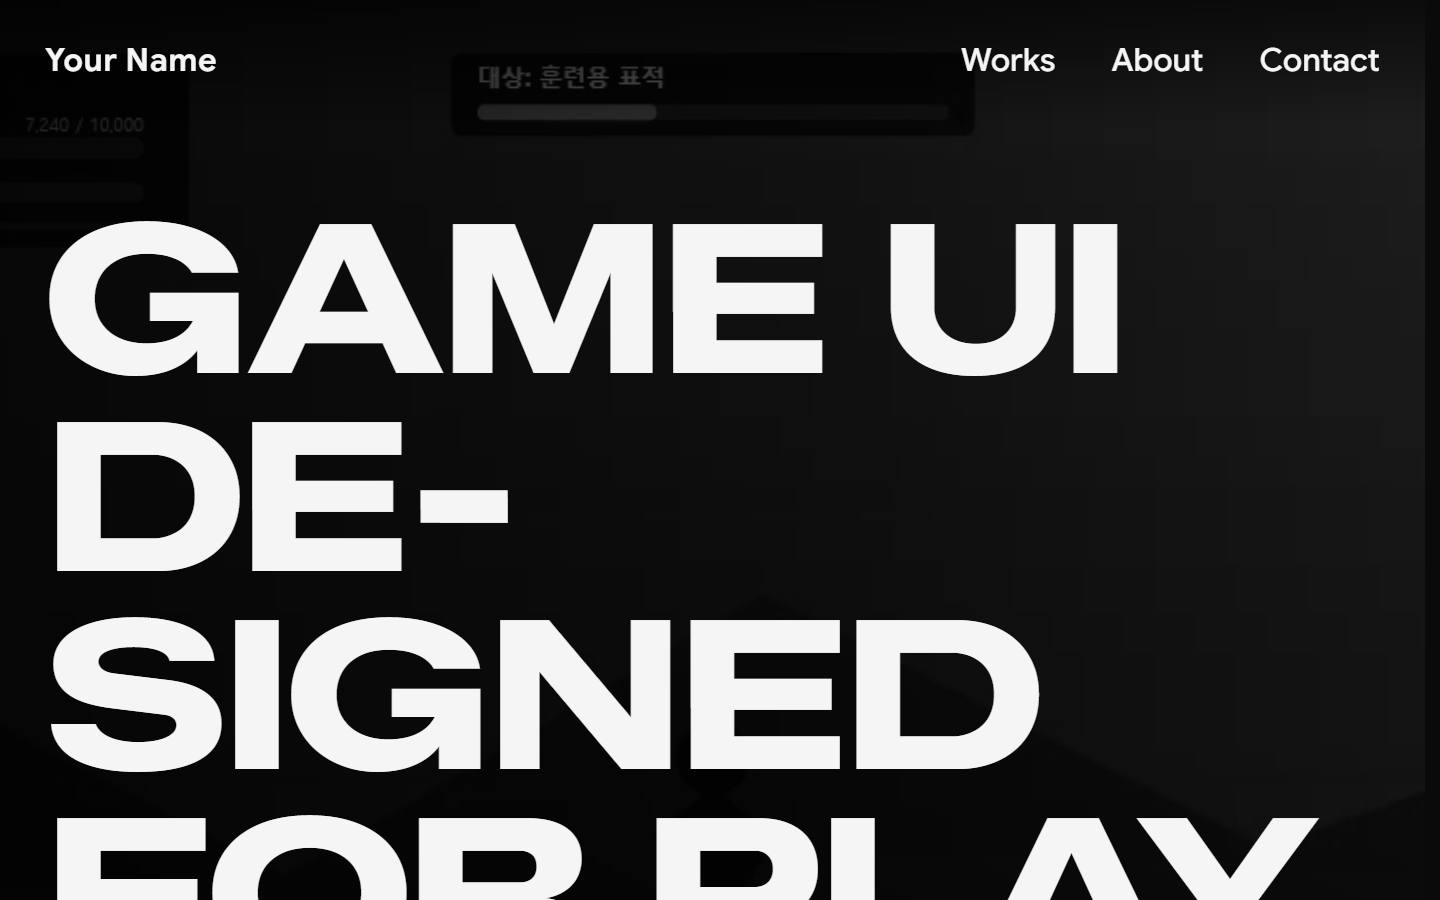
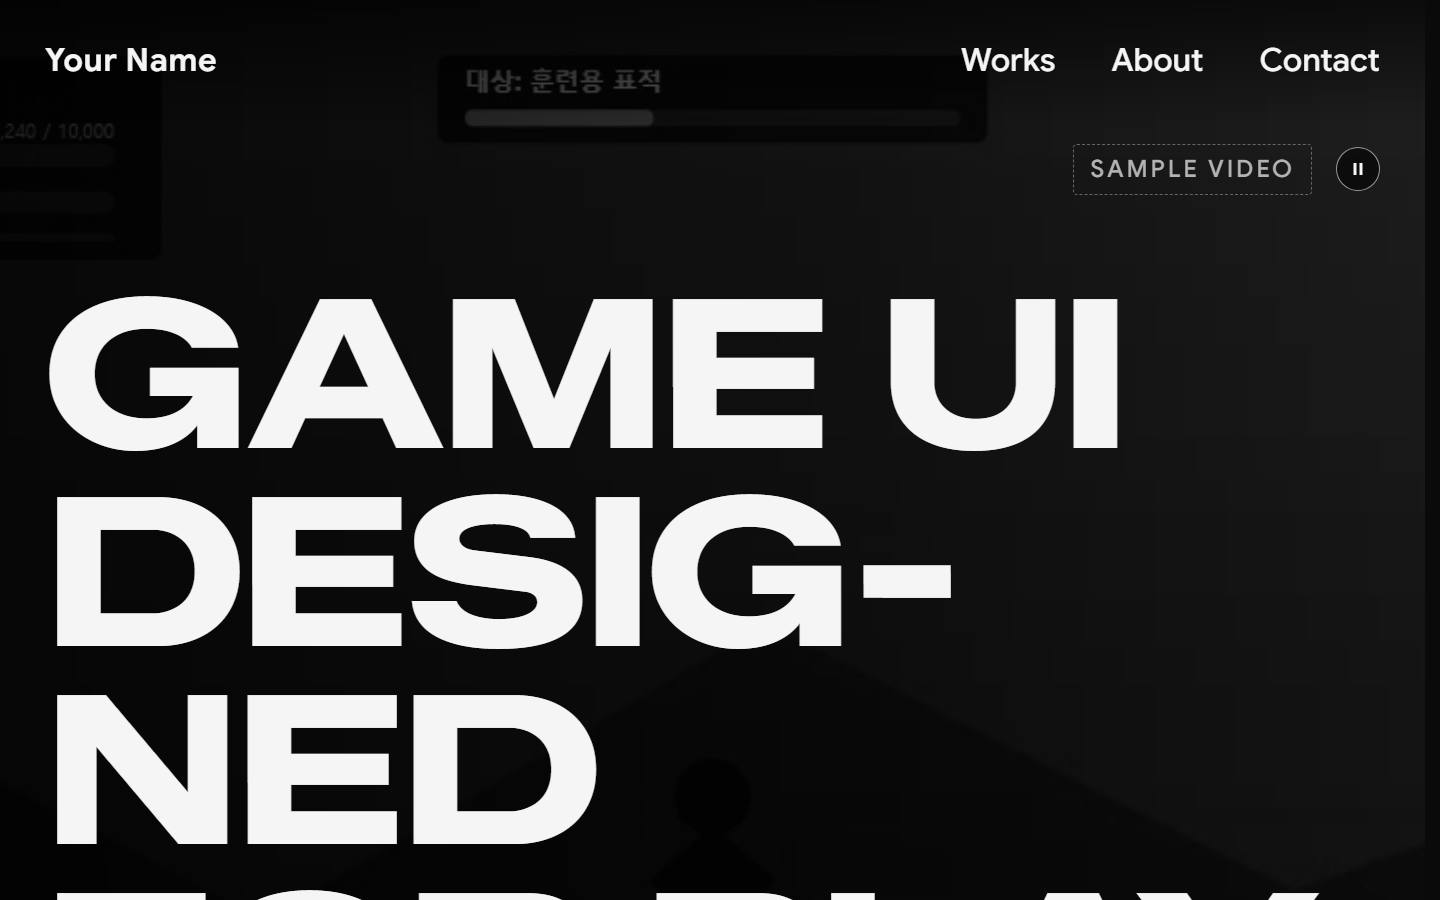
feat: REQ-004 확대 상태 영상 제어 접근성, 헤드라인 언어 구조
① 영상 제어
- SAMPLE VIDEO·재생/정지를 모든 화면에서 히어로 맨 위(헤더 바로 아래)로 이동
- CSS order 대신 HTML 순서를 옮겨 시각·키보드 순서 일치 (헤더→영상 제어→제목·CTA)
- 낮은 가로 화면 전용 이동 규칙 제거, 고정 버튼·제목 축소·확대율 감지 없음

② 헤드라인 구조
- hero.ts: titleLang(기본 en), titleLines 줄별 { text, lang } 지원
- h1 lang, 다른 언어 줄만 span lang, 한글 줄 줄 간격·자간·띄어쓰기 줄바꿈
- 임시 헤드라인 soft hyphen DE-/SIG-/NED로 조정 (기본 크기에선 보이지 않음)

점검·캡처
- verify: 7개 화면×기본/글자200% 첫 화면 정지 버튼, HTML·시각·Tab 순서,
  영문 짧음/긴 단어/한글/혼합 임시 헤드라인 검사 추가
- screenshots: 글자200% 모바일·가로, 한글 임시 헤드라인 캡처 추가, 전체 갱신

diff --git a/src/data/hero.ts b/src/data/hero.ts
@@ -6,12 +6,21 @@ import samplePoster from '../content/projects/rpg-hud-character-ui/images/hud-fi
  * 메인 히어로 설정. 최종 영상·문구가 정해지면 이 파일만 바꾸면 된다.
  * 영상 경로는 public/ 기준 (예: 'videos/showreel.mp4'). 배포 하위 경로(BASE_PATH)는 자동 반영된다.
  */
+/** 제목 한 줄. 문자열이면 titleLang을 따르고, 줄마다 언어가 다르면 { text, lang }으로 쓴다. */
+export type TitleLine = string | { text: string; lang?: string };
+
 export interface HeroInfo {
   /**
-   * 대형 제목 — 배열 1칸이 1행. 한 행은 영문 기준 8~9자 이내를 권장.
-   * 글자를 크게 키웠을 때 긴 단어가 끊길 위치는 \u00AD(soft hyphen)로 지정한다. 화면에 들어가면 보이지 않는다.
+   * 대형 제목 — 배열 1칸이 1행. 영문은 한 행 8~9자 이내를 권장.
+   * soft hyphen(\u00AD)은 영문 긴 단어의 선택적 줄바꿈 힌트다. 문구를 바꾸면 새 단어에 맞게 다시 넣고,
+   * 지금 위치를 기계적으로 옮기지 않는다. 한글은 띄어쓰기 단위로 줄이 바뀐다.
    */
-  titleLines: string[];
+  titleLines: TitleLine[];
+  /**
+   * 제목 기본 언어 (BCP 47). 영문 'en', 한글 'ko'. 줄바꿈·하이픈·화면 낭독기 발음에 쓰인다.
+   * 한글은 제목 글꼴(Zalando Sans Expanded)에 없어 시스템 한글 글꼴로 표시된다.
+   */
+  titleLang: string;
   description: string;
   /** 데스크톱 배경 영상. 여러 형식은 목록으로 (앞에서부터 재생 시도: mp4 → webm 권장). 비우면 포스터만 표시 */
   videoDesktop?: string | string[];
@@ -32,7 +41,10 @@ export interface HeroInfo {
 }
 
 export const hero: HeroInfo = {
-  titleLines: ['GAME UI', 'DE\u00ADSIGNED', 'FOR PLAY'], // 임시 헤드라인 (최종 문구 미정). \u00AD = 필요할 때만 'DE-/SIGNED'로 끊음
+  titleLines: ['GAME UI', 'DE\u00ADSIG\u00ADNED', 'FOR PLAY'], // 임시 헤드라인 (최종 문구 미정). \u00AD = 필요할 때만 'DE-/SIG-/NED'로 끊음
+  titleLang: 'en',
+  // 예) 한글: titleLines: ['플레이를', '설계하는', '디자이너'], titleLang: 'ko'
+  // 예) 혼합: titleLines: ['GAME UI', { text: '디자이너', lang: 'ko' }], titleLang: 'en'
   description: '플레이의 흐름을 만드는 게임 UI 디자이너.',
   // 임시: 기존 RPG HUD 샘플 영상 (최종 흑백 UI 모션 쇼릴로 교체 예정)
   videoDesktop: 'videos/rpg-hud-interaction.webm',
